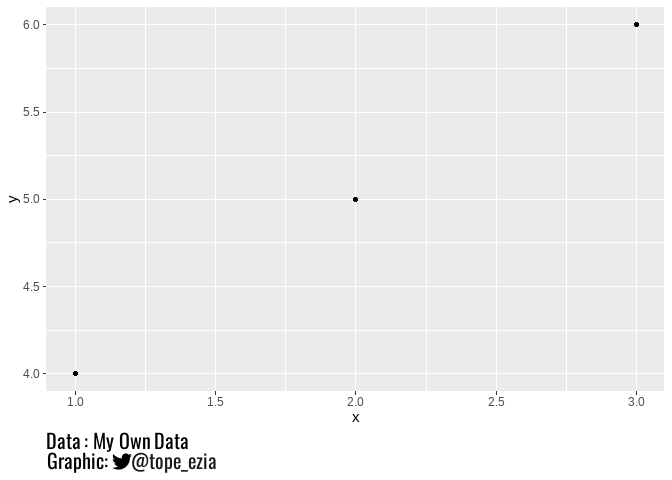
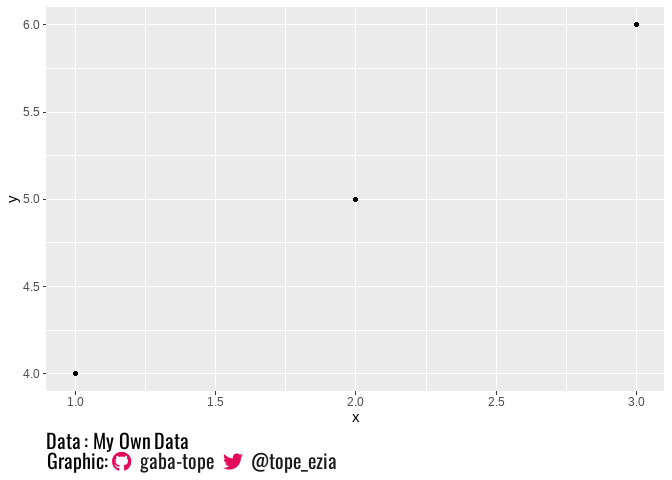
READMEs updated upon minor bug fix

Changed region(s): [[0.1562, 0.9375, 0.5, 1.0]]

diff --git a/README.md b/README.md
@@ -8,11 +8,12 @@
 
 The `socialcap` package is designed to provide an easy and efficient way
 to include social media handles with corresponding icons in the captions
-of ggplot2 plots. <br> By using the socialcap function, users can: + Add
-their social media usernames (GitHub, Twitter, Facebook, LinkedIn,
-Discord) along with stylish icons directly to their plots. + Customize
-the appearance of these handles, including text color and font, to match
-the aesthetic of their visualizations.
+of ggplot2 plots. <br> By using the socialcap function, users can:
+
+1.  Add their social media usernames (GitHub, Twitter, Facebook,
+    LinkedIn, Discord) along with stylish icons directly to their plots.
+2.  Customize the appearance of these handles, including text color and
+    font, to match the aesthetic of their visualizations.
 
 This package was largely inspired from [Nicola
 Rennie](https://nrennie.rbind.io/)’s post, [Adding social media icons to
@@ -38,7 +39,7 @@ After installation, you may load `socialcap` into R session with:
 library(socialcap)
 ```
 
-You are now ready to use socialcap to enhance your ggplot2
+You are now ready to use `socialcap` to enhance your ggplot2
 visualizations with social media information.
 
 ## Requirement
@@ -48,7 +49,7 @@ visualizations with social media information.
     [website](https://fontawesome.com/download). ‘Font Awesome Free’
     font files follow the [SIL OFL
     license](https://openfontlicense.org/) as explained in their
-    [website](https://fontawesome.com/license/free) ( accessed in
+    [website](https://fontawesome.com/license/free) (accessed in
     2024-01-18).
 2.  The returned string should be written in HTML language. In order to
     apply the string into your plots, the following conditions should be
@@ -69,8 +70,8 @@ These are basic examples which show you how to use the function
 ``` r
 library(socialcap)
 library(showtext)
-#> 필요한 패키지를 로딩중입니다: sysfonts
-#> 필요한 패키지를 로딩중입니다: showtextdb
+#> Loading required package: sysfonts
+#> Loading required package: showtextdb
 library(ggplot2)
 library(ggtext)
 library(showtext)
@@ -78,7 +79,7 @@ library(showtext)
 ## basic example code
 social_caption <- socialcap::socialcap(gitname = "gaba-tope", twitname = "@tope_ezia")
 social_caption
-#> [1] "<span style='font-family:\"Font_Awesome_6_Brands_reg\";'>&#xf099;</span><span style='color: grey10; font-family:\"oswald\";'>@tope_ezia</span>"
+#> [1] "<span style='color: #E30b5c;font-family:\"Font_Awesome_6_Brands_reg\";'>&#xf09b;</span> <span style='color: grey10; font-family:\"oswald\";'>gaba-tope</span> <span style='color: #E30b5c;font-family:\"Font_Awesome_6_Brands_reg\";'>&#xf099;</span> <span style='color: grey10; font-family:\"oswald\";'>@tope_ezia</span>"
 
 data_caption <- "Data : My Own Data"
 plot_caption <- paste(data_caption, "<br> Graphic:", social_caption)
